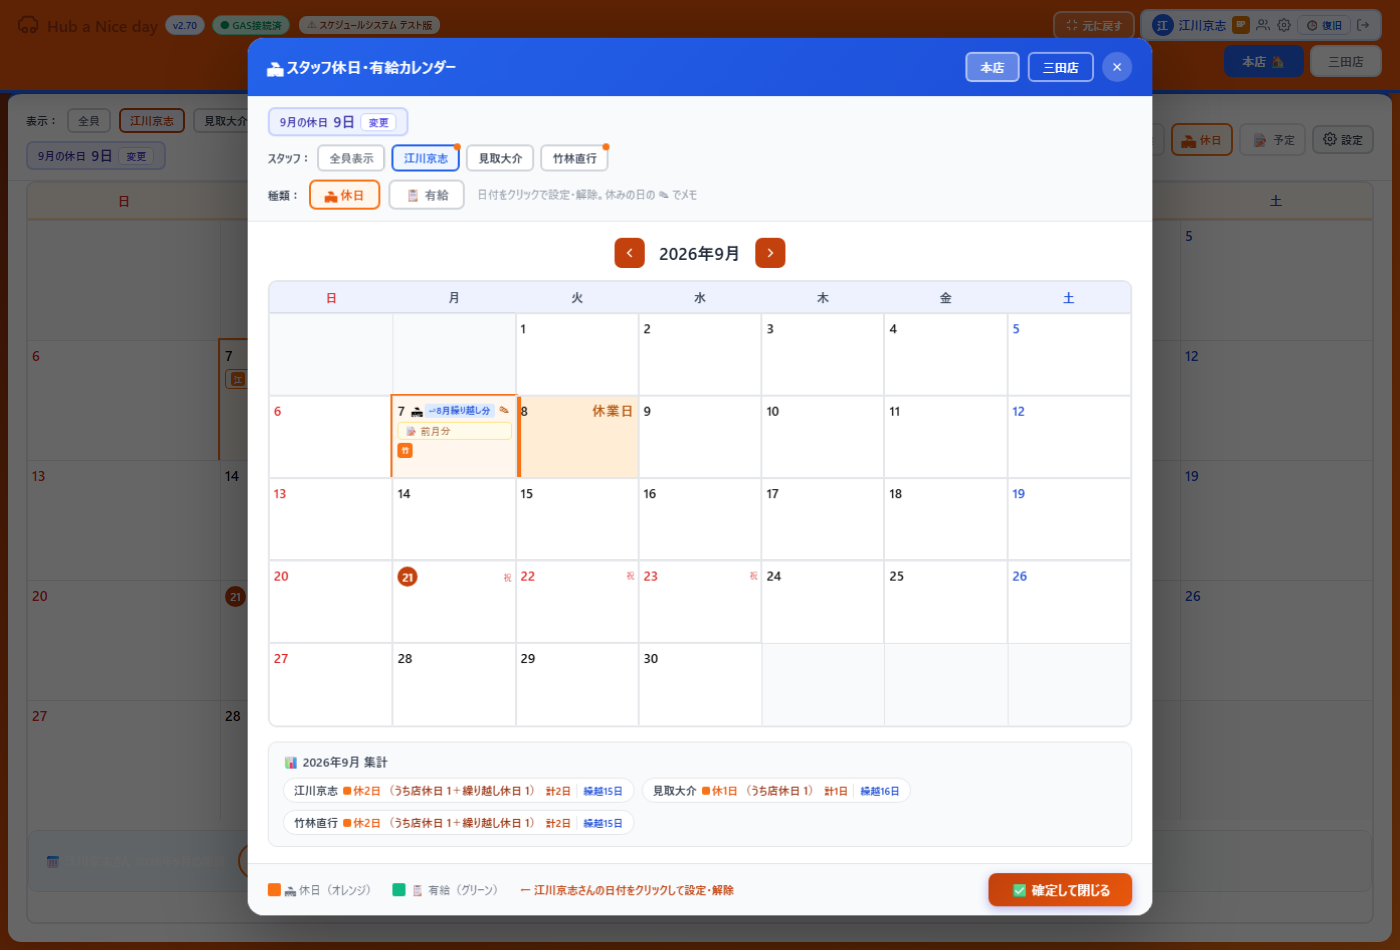
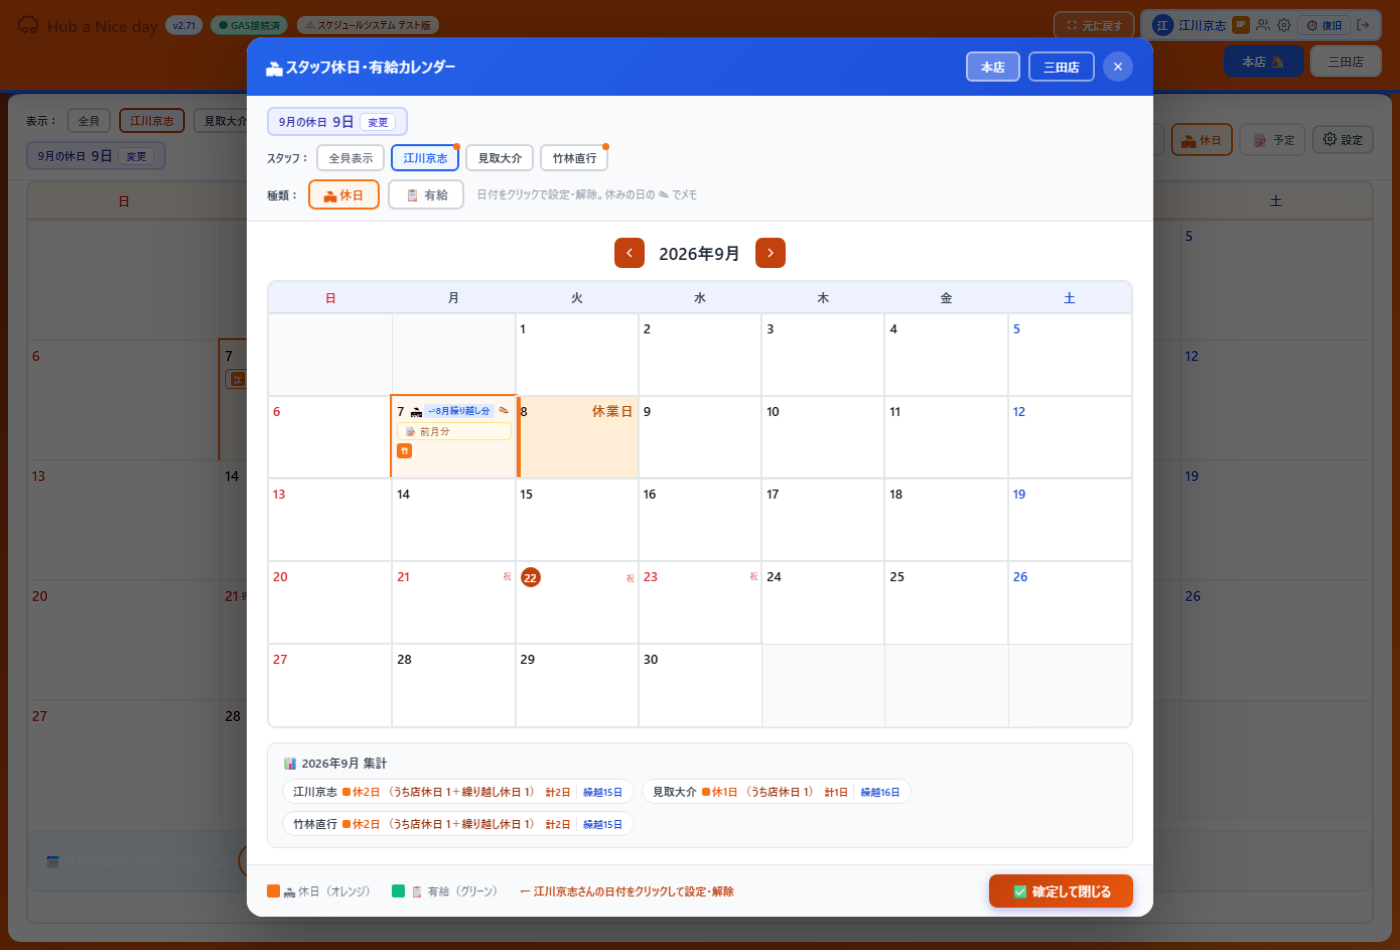
v2.72 スマホの休日入力に「確定」ボタン：🏖休日／📋有給を選んでから確定で保存（誤タップ防止）。もう一度押すと解除の選択、「やめる」で取り消し。検査を追従

diff --git a/fb_holiday_test.js b/fb_holiday_test.js
@@ -101,8 +101,10 @@ const signedInInit = ([k, me, stor]) => {
     t('PC で入れた休日が購読で届く（タップした日に見取が出る）', await tapDay(page, D2) && await seeText(page, '見取大介', 6000) && await seeText(page, '出勤 2人 / 3人', 3000));
     await tapDay(page, D1);
     await clickText(page, '🏖 休日');
+    t('確定ボタンが出る（チップだけでは保存されない）', await seeText(page, '✅ 確定', 3000) && !((await dayoff(page))[DK1] || []).includes('江川京志'), await dayoff(page));
+    await clickText(page, '✅ 確定');
     t('自分を休日にすると dayoff に足される（竹林の分はそのまま）', await page.waitForFunction(([k, dk]) => { const v = window.__fakeFb.get(k + 'honten-dayoff'); return v && v[dk] && v[dk].includes('江川京志') && v[dk].includes('竹林直行'); }, [STOR, DK1], { timeout: 8000 }).then(() => true).catch(() => false), await dayoff(page));
-    t('画面が「出勤 1人」に変わり、解除の案内が出る', await seeText(page, '出勤 1人 / 3人', 5000) && await seeText(page, 'タップで解除', 3000));
+    t('画面が「出勤 1人」に変わり、解除の案内が出る', await seeText(page, '出勤 1人 / 3人', 5000) && await seeText(page, '解除の選択', 3000));
     // 休日メモ（2026-09-20）
     t('休みの日にメモ欄が出る', await clickText(page, 'メモを書く'));
     await page.fill('input[placeholder*="午後休"]', '午後休');
@@ -115,16 +117,16 @@ const signedInInit = ([k, me, stor]) => {
     t(`繰り越し：集計に「繰り越し休日」の内訳が出る（前月の残り ${8 - prevClosed} 日のうち充てた分）`, await seeText(page, '繰り越し休日', 5000), await page.evaluate(() => (document.body.innerText.match(/江川京志：[^\n]*/) || [''])[0]));
     t('繰り越し：バッジは「繰り越しN日 →翌月へ」だけ（枠・残りは出さない）', await page.evaluate(() => /繰り越し\d+日 →翌月へ/.test(document.body.innerText) && !/今月の枠|残り\d+日/.test(document.body.innerText)));
     t('今月の集計に自分の休日が数えられる', await page.evaluate(() => /江川京志：🏖 \d+日/.test(document.body.innerText)));
-    await clickText(page, '📋 有給');
+    await clickText(page, '📋 有給'); await clickText(page, '✅ 確定');
     t('有給に切り替えると dayoff から外れ pleave に入る', await page.waitForFunction(([k, dk]) => { const o = window.__fakeFb.get(k + 'honten-dayoff') || {}, l = window.__fakeFb.get(k + 'honten-pleave') || {}; return !(o[dk] || []).includes('江川京志') && (o[dk] || []).includes('竹林直行') && (l[dk] || []).includes('江川京志'); }, [STOR, DK1], { timeout: 8000 }).then(() => true).catch(() => false), { o: await dayoff(page), l: await pleave(page) });
-    await clickText(page, '📋 有給');
+    await clickText(page, '📋 有給'); await clickText(page, '✅ 確定');
     t('もう一度で有給が外れる', await page.waitForFunction(([k, dk]) => { const l = window.__fakeFb.get(k + 'honten-pleave') || {}; return !(l[dk] || []).includes('江川京志'); }, [STOR, DK1], { timeout: 8000 }).then(() => true).catch(() => false), await pleave(page));
     t('休みを外すとメモも消える', await page.waitForFunction(([k, dk]) => !(window.__fakeFb.get(k + 'honten-offnote') || {})[dk + '::江川京志'], [STOR, DK1], { timeout: 8000 }).then(() => true).catch(() => false), await offnote(page));
     await tapDay(page, D2);
     // 管理者は他の人の分も入れられる
     t('管理者には「設定する人」の選択がある', await page.evaluate(() => !!document.querySelector('select')));
     await page.selectOption('select', '竹林直行');
-    await clickText(page, '🏖 休日');
+    await clickText(page, '🏖 休日'); await clickText(page, '✅ 確定');
     t('管理者が竹林の休日を入れられる', await page.waitForFunction(([k, dk]) => { const v = window.__fakeFb.get(k + 'honten-dayoff') || {}; return (v[dk] || []).includes('竹林直行') && (v[dk] || []).includes('見取大介'); }, [STOR, DK2], { timeout: 8000 }).then(() => true).catch(() => false), await dayoff(page));
     // 他の店は閲覧のみ
     await clickText(page, '三田店');
@@ -147,7 +149,7 @@ const signedInInit = ([k, me, stor]) => {
     t('店休日は「全員休み」と出て入力ボタンが無い', await seeText(page, '店休日（全員休み）', 5000) && !(await page.evaluate(() => [...document.querySelectorAll('button')].some(b => b.innerText.includes('🏖 休日') && b.innerText.length < 20))), await page.evaluate(() => document.body.innerText.slice(-300)));
     await tapDay(page, D2);
     t('自分の名前で入力欄が出る', await seeText(page, '竹林直行（自分）', 5000), await page.evaluate(() => document.body.innerText.slice(-400)));
-    await clickText(page, '🏖 休日');
+    await clickText(page, '🏖 休日'); await clickText(page, '✅ 確定');
     t('一般スタッフが自分の休日を入れられる', await page.waitForFunction(([k, dk]) => { const v = window.__fakeFb.get(k + 'honten-dayoff') || {}; return (v[dk] || []).includes('竹林直行'); }, [STOR, DK2], { timeout: 8000 }).then(() => true).catch(() => false), await dayoff(page));
     t('JSエラー・alert なし', errs.length === 0, errs.slice(0, 3));
     await ctx.close();
@@ -237,7 +239,7 @@ const signedInInit = ([k, me, stor]) => {
     await openTab(page); await seeText(page, 'スタッフ休日', 8000);
     t('スマホ自動有給：枠を使い切っているのでバッジが出ない', await seeText(page, '江川京志：🏖', 5000) && await page.evaluate(() => !/繰り越し\d+日 →翌月へ/.test(document.body.innerText)), await page.evaluate(() => (document.body.innerText.match(/江川京志：[^\n]*/) || [''])[0]));
     await tapDay(page, D2); await page.waitForTimeout(300);
-    await clickText(page, '🏖 休日');
+    await clickText(page, '🏖 休日'); await clickText(page, '✅ 確定');
     t('スマホ自動有給：🏖 休日 を押しても有給（pleave）に入る', await page.waitForFunction(([k, dk]) => { const p = window.__fakeFb.get(k + 'honten-pleave') || {}; const o = window.__fakeFb.get(k + 'honten-dayoff') || {}; return (p[dk] || []).includes('江川京志') && !(o[dk] || []).includes('江川京志'); }, [STOR, DK2], { timeout: 8000 }).then(() => true).catch(() => false), [await dayoff(page), await pleave(page)]);
     t('スマホ自動有給：お知らせが出る', await seeText(page, '有給として入れました', 3000));
     t('スマホ自動有給：JSエラー・alert なし', errs.length === 0, errs.slice(0, 3));

diff --git a/mobile.html b/mobile.html
@@ -17,7 +17,7 @@
   // 画面復帰時と定期に自分自身をno-storeで取得し、__APP_BUILDが変わっていれば更新バナーを表示する。
   // タップ時は cache:'reload' で新HTMLをHTTPキャッシュへ焼き直してから reload するので、確実に新版になる
   // （アプリを消したりURLを打ち直す必要はない）。本番デプロイ時は port_to_main.js が __APP_BUILD を自動更新する。
-  window.__APP_BUILD='build-1790035323464';
+  window.__APP_BUILD='build-1790036944415';
   (function(){
     var RUNNING=window.__APP_BUILD, shown=false, checking=false;
     function runningVer(){
@@ -90,7 +90,7 @@ input,select,textarea{font-family:inherit;font-size:16px;}
 <script id="app-jsx" type="text/plain">
 const {useState,useEffect,useCallback,useMemo,useRef,memo}=React;
 // ★ バージョン管理：システム全体で1つ。変更のたびにindex_dev.htmlのAPP_VERSIONと同値で0.01上げる
-const MOBILE_VERSION='2.71';
+const MOBILE_VERSION='2.72';
 // 本人認証を必須にするか。index_dev.html の AUTH_REQUIRED と必ず同じ値にすること。
 //   false … 従来どおり番号を打てば入れる（移行期間）。登録の入口だけ増える。
 //   true  … この端末で本人確認を済ませた人しか入れない。
@@ -2856,14 +2856,26 @@ const HolidayView=({user,vsId,adminMode,staffH,staffS,dayOffH,dayOffS,pleaveH,pl
   const selOffs=selDk?(offs[selDk]||[]):[], selLeaves=selDk?(leaves[selDk]||[]):[];
   const selWorking=selClosed?[]:staff.filter(s=>!selOffs.includes(s.name)&&!selLeaves.includes(s.name));
   const myState=selDk?(selOffs.includes(target)?'dayoff':selLeaves.includes(target)?'leave':''):'';
-  const tap=async(type)=>{
+  // 休日・有給はチップで選んでから「確定」で保存する（2026-09-22 ユーザー要望：タップ1つで確定すると誤操作しやすい）
+  const [pend,setPend]=useState(null);   // {dk, type:'dayoff'|'leave'|''} 未確定の選択。'' は解除
+  useEffect(()=>{ setPend(null); },[selDay,cy,cm,store,target]);
+  const shown=(pend&&pend.dk===selDk)?pend.type:myState;   // チップに出す状態（未確定があればそれ）
+  const dirty=pend&&pend.dk===selDk&&pend.type!==myState;
+  const tap=(type)=>{
     if(!selDk||selClosed||busy||!canEditHere||!targetInStore)return;
+    const next=shown===type?'':type;   // もう一度押すと取り消し（解除の選択）
+    setPend({dk:selDk,type:next});
+  };
+  const cancelPend=()=>setPend(null);
+  const commit=async()=>{
+    if(!dirty||busy)return;
+    let type=pend.type||myState;   // onToggle は「その種類を付ける／外す」なので、外す時は今の種類を渡す
     // 今月の枠（会社の休日数＋繰越）を使い切っていたら、休日ではなく有給として入れる（2026-09-21 ユーザー決定）
-    if(type==='dayoff'&&myState!=='dayoff'&&carry&&carry.quota!=null&&carry.taken>=carry.quota){
+    if(pend.type==='dayoff'&&myState!=='dayoff'&&carry&&carry.quota!=null&&carry.taken>=carry.quota){
       type='leave'; setAutoLeaveMsg(`${cm+1}月の休日の枠（${carry.quota}日）を使い切っているので、${cm+1}/${selDay} は有給として入れました`);
     }
     setBusy(true);
-    try{ await onToggle(store,type,selDk,target); }finally{ setBusy(false); }
+    try{ await onToggle(store,type,selDk,target); setPend(null); }finally{ setBusy(false); }
   };
   const Chip=({on,color,bg,children,onClick,disabled})=>(
     <button onClick={onClick} disabled={disabled}
@@ -2980,10 +2992,17 @@ const HolidayView=({user,vsId,adminMode,staffH,staffS,dayOffH,dayOffS,pleaveH,pl
             <div>
               <div style={{fontSize:11,color:'#64748b',marginBottom:5}}><b>{target}</b>{target===user.name?'（自分）':''}のこの日：</div>
               <div style={{display:'flex',gap:6}}>
-                <Chip on={myState==='dayoff'} color="#ea580c" bg="#fff7ed" disabled={busy} onClick={()=>tap('dayoff')}>🏖 休日{myState==='dayoff'?'（タップで解除）':''}</Chip>
-                <Chip on={myState==='leave'} color="#059669" bg="#d1fae5" disabled={busy} onClick={()=>tap('leave')}>📋 有給{myState==='leave'?'（タップで解除）':''}</Chip>
+                <Chip on={shown==='dayoff'} color="#ea580c" bg="#fff7ed" disabled={busy} onClick={()=>tap('dayoff')}>🏖 休日</Chip>
+                <Chip on={shown==='leave'} color="#059669" bg="#d1fae5" disabled={busy} onClick={()=>tap('leave')}>📋 有給</Chip>
               </div>
-              <div style={{fontSize:10,color:'#94a3b8',marginTop:6}}>タップした瞬間に確定し、PC のスタッフ休日カレンダーにもすぐ出ます。</div>
+              {dirty
+                ?<div style={{display:'flex',gap:6,marginTop:8}}>
+                  <button onClick={commit} disabled={busy} style={{flex:2,padding:'11px 8px',borderRadius:10,border:'none',background:'#1d4ed8',color:'white',fontWeight:900,fontSize:14,opacity:busy?.6:1}}>
+                    {busy?'保存中…':pend.type===''?`✅ 確定（${cm+1}/${selDay} の${myState==='leave'?'有給':'休日'}を解除）`:`✅ 確定（${cm+1}/${selDay} を${pend.type==='leave'?'有給':'休日'}に）`}
+                  </button>
+                  <button onClick={cancelPend} disabled={busy} style={{flex:1,padding:'11px 8px',borderRadius:10,border:'1px solid #cbd5e1',background:'white',color:'#475569',fontWeight:700,fontSize:13}}>やめる</button>
+                </div>
+                :<div style={{fontSize:10,color:'#94a3b8',marginTop:6}}>{myState?'もう一度押すと解除の選択になります。':'選んで'}「確定」を押すまで保存されません。確定すると PC のスタッフ休日カレンダーにもすぐ出ます。</div>}
               {autoLeaveMsg&&<div data-auto-leave style={{marginTop:6,fontSize:11,fontWeight:700,color:'#065f46',background:'#d1fae5',border:'1px solid #6ee7b7',borderRadius:8,padding:'6px 9px'}}>📋 {autoLeaveMsg}</div>}
               {myState&&(
                 <div style={{marginTop:8}}>

diff --git a/shot_mobile_confirm.js b/shot_mobile_confirm.js
@@ -1,0 +1,51 @@
+// スマホ休日タブの「確定」ボタンの見た目を撮る（にせの firebase）。 node shot_mobile_confirm.js
+const path = require('path'), fs = require('fs'), http = require('http');
+let chromium;
+for (const base of [__dirname, path.join(process.env.LOCALAPPDATA || '', 'Temp', 'hub-verify')]) {
+  try { chromium = require(path.join(base, 'node_modules', 'playwright')).chromium; break; } catch (e) {}
+}
+const DIR = __dirname, PORT = 8172, STOR = 'hub-v8-dev-';
+const FAKE_FB = fs.readFileSync(path.join(DIR, 'fake_firebase.js'), 'utf8');
+const now = new Date(), Y = now.getFullYear(), M = now.getMonth();
+const seed = {
+  [STOR + 'insp']: {}, [STOR + 'honten-sched']: {},
+  [STOR + 'honten-staff-v2']: [{ uid: 'h7', name: '江川京志', myNumber: 7, badge: 'bodywork', store: 'honten' }, { uid: 'h1', name: '見取大介', myNumber: 1, badge: 'inspector', store: 'honten' }, { uid: 'h3', name: '竹林直行', myNumber: 3, badge: 'inspector', store: 'honten' }],
+  [STOR + 'sanda-staff-v2']: [], [STOR + 'honten-dayoff']: {}, [STOR + 'honten-pleave']: {},
+  [STOR + 'honten-cdate']: [], [STOR + 'sanda-cdate']: [], [STOR + 'honten-cdow']: [], [STOR + 'sanda-cdow-v2']: [3],
+  [STOR + 'mholidays']: { [`${Y}-${M + 1}`]: 9 },
+};
+const ME = { email: 'egawa@midori-m.com', uid: 'uid_egawa', name: '江川京志', store: 'honten' };
+const signedInInit = ([k, me, stor]) => {
+  localStorage.setItem('__fakeFbUser', JSON.stringify({ email: me.email, uid: me.uid }));
+  const st = JSON.parse(localStorage.getItem('__fakeFbStore') || '{}');
+  st['meta/allowed'] = { [me.email.replace(/\./g, ',')]: { email: me.email, name: me.name, store: me.store, uid: 'h7', role: 'admin', active: true, kind: 'staff' } };
+  st['devices/dev-test'] = { env: stor, e: me.email, n: me.name, names: [me.name], s: me.store, k: 'shared', l: 'テストPC', ua: 'test', at: 1, last: Date.now() };
+  localStorage.setItem('__fakeFbStore', JSON.stringify(st));
+  localStorage.setItem(stor + 'auth-devid', 'dev-test');
+  localStorage.setItem(stor + 'auth-mine', JSON.stringify([{ uid: 'h7', name: me.name, store: me.store, email: me.email }]));
+  localStorage.setItem(stor + 'auth-kind', 'shared');
+};
+const seeText = async (page, s, ms = 8000) => { try { await page.waitForFunction(x => document.body.innerText.includes(x), s, { timeout: ms }); return true; } catch (e) { return false; } };
+const clickText = (page, s) => page.evaluate(x => { const b = [...document.querySelectorAll('button')].find(e => e.innerText.includes(x)); if (b) { b.click(); return true; } return false; }, s);
+(async () => {
+  const server = http.createServer((req, res) => {
+    const p = decodeURIComponent(req.url.split('?')[0]).replace(/^\//, '');
+    if (p === 'mobile.html') { res.writeHead(200, { 'Content-Type': 'text/html; charset=utf-8' }); res.end(fs.readFileSync(path.join(DIR, p), 'utf8').replace(/const AUTH_REQUIRED = (true|false);/, 'const AUTH_REQUIRED = false;')); return; }
+    fs.readFile(path.join(DIR, p), (err, d) => { if (err) { res.writeHead(404); res.end('nf'); return; } res.writeHead(200); res.end(d); });
+  });
+  await new Promise(r => server.listen(PORT, r));
+  const browser = await chromium.launch({ headless: true });
+  const ctx = await browser.newContext({ viewport: { width: 400, height: 850 }, deviceScaleFactor: 2, isMobile: true, hasTouch: true });
+  await ctx.addInitScript(signedInInit, [0, ME, STOR]);
+  await ctx.route('https://www.gstatic.com/firebasejs/**', route => { const u = route.request().url(); const body = (u.indexOf('firebase-app-compat') >= 0) ? FAKE_FB + '\n(function(){ const s=' + JSON.stringify(seed) + '; for (const k in s) window.__fakeFb.set(k, s[k]); })();' : ''; return route.fulfill({ status: 200, contentType: 'application/javascript', body }); });
+  await ctx.route('https://script.google.com/**', route => route.fulfill({ status: 200, contentType: 'text/plain', headers: { 'Access-Control-Allow-Origin': '*' }, body: 'null' }));
+  const page = await ctx.newPage();
+  await page.goto('http://localhost:' + PORT + '/mobile.html', { waitUntil: 'domcontentloaded' });
+  await seeText(page, '江川京志', 20000); await clickText(page, '江川京志'); await seeText(page, 'カレンダー', 20000);
+  await page.evaluate(() => { const el = [...document.querySelectorAll('div')].filter(e => e.textContent === '🏖休日' || (e.textContent.includes('休日') && e.textContent.length < 6)).pop(); if (el) el.click(); });
+  await seeText(page, 'スタッフ休日', 8000); await page.waitForTimeout(500);
+  await clickText(page, '🏖 休日'); await page.waitForTimeout(300);
+  const box = await page.evaluate(() => { const b = [...document.querySelectorAll('button')].find(e => e.innerText.includes('✅ 確定')); const r = b.getBoundingClientRect(); return { y: r.top }; });
+  await page.screenshot({ path: path.join(DIR, 'shot-mobile-confirm.png'), clip: { x: 0, y: Math.max(0, box.y - 150), width: 400, height: 260 } });
+  await browser.close(); server.close(); console.log('ok');
+})();

diff --git a/customers.html b/customers.html
@@ -20,7 +20,7 @@
   // 開きっぱなしのタブが旧コードのまま動き続けるのを防ぐ。画面復帰時と定期に自分自身を
   // no-store+クエリ付きで取得し、__APP_BUILD が変わっていれば「更新」バナーを表示する。
   // 本番デプロイ時は port_to_main.js が __APP_BUILD を自動更新する（手動更新不要）。
-  window.__APP_BUILD='build-1790035323464';
+  window.__APP_BUILD='build-1790036944415';
   (function(){
     var RUNNING=window.__APP_BUILD, shown=false, checking=false;
     function runningVer(){
@@ -141,7 +141,7 @@ const hubRenew = async name => {};
 // index側の全画面オーバーレイ（iframe）内で開かれているか。埋め込み時は
 // 「スケジュールに戻る」がページ遷移ではなく親へのpostMessage（オーバーレイ閉鎖）になる。
 const IS_EMBED=(()=>{try{return window.self!==window.top;}catch(e){return true;}})();
-const APP_VERSION='2.71'; // 表示用バージョン。更新ごとに上げる（軽微+0.01／大型は整数を上げる）。index_dev.htmlと揃える
+const APP_VERSION='2.72'; // 表示用バージョン。更新ごとに上げる（軽微+0.01／大型は整数を上げる）。index_dev.htmlと揃える
 const storKey=(base,sid)=>`${STOR}${sid}-${base}`;
 const CHUNK_SIZE=100;
 // ファイル名をGASキーに使える形に変換

diff --git a/index_dev.html b/index_dev.html
@@ -22,7 +22,7 @@
     // 開きっぱなしのタブが旧コードのまま動き続けるのを防ぐ。画面復帰時と定期に自分自身を
     // no-store+クエリ付きで取得し、__APP_BUILD が変わっていれば「更新」バナーを表示する。
     // 本番デプロイ時は port_to_main.js が __APP_BUILD を自動更新する（手動更新不要）。
-    window.__APP_BUILD='build-1790035323464';
+    window.__APP_BUILD='build-1790036944415';
     (function(){
       var RUNNING=window.__APP_BUILD, shown=false, checking=false;
       function runningVer(){
@@ -121,7 +121,7 @@
 const { useState, useEffect, useLayoutEffect, useRef, useCallback, memo, useMemo } = React;
 
 // ★ バージョン管理：アップデートのたびにここだけ変更する
-const APP_VERSION = '2.71';
+const APP_VERSION = '2.72';
 // 本人認証を必須にするか。false の間は従来どおり名前を選ぶだけで入れる（移行期間）。
 //   false … 全員が今までどおり使える。端末の登録（＋スタッフを追加）は先にできる。
 //   true  … その端末で本人確認を済ませた人しかログイン画面に出ない。

diff --git a/admin.html b/admin.html
@@ -218,7 +218,7 @@ td.act{text-align:right;white-space:nowrap}
 //  この画面を開けるのは、許可簿（Firestore の meta/allowed）で role=admin の人だけ。
 //  ログインは Firebase Authentication のメールリンク（2026-09-18〜）。判定は Firestore のルールが行う。画面の申告は信用しない。
 // =====================================================================
-var APP_VERSION = '2.71';
+var APP_VERSION = '2.72';
 var GAS_URL     = 'https://script.google.com/macros/s/AKfycbyNE1eVKjibSPLEA0HrVZI8NxEFKWQfMYQ6cKoM1Gznauy9AhfZqHzgs1zzMaxXnQ1_/exec';
 // 環境の切り替え（2026-09-15）。この1ファイルで本番とDEVの両方を扱う。
 //   既定はDEV（安全側）。URLに ?env=prod が付いている時だけ本番のデータを扱う。
